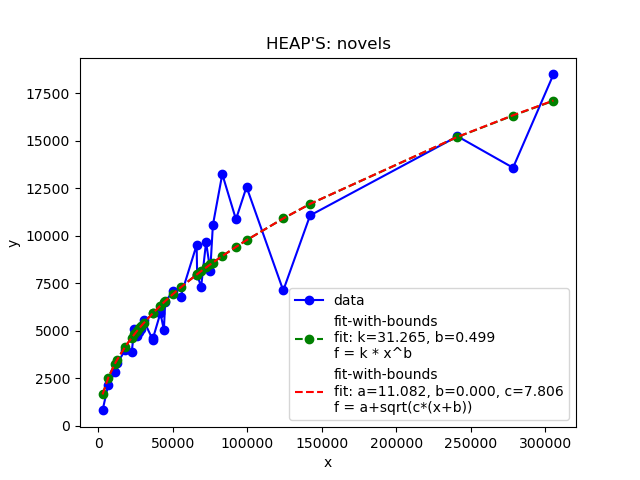
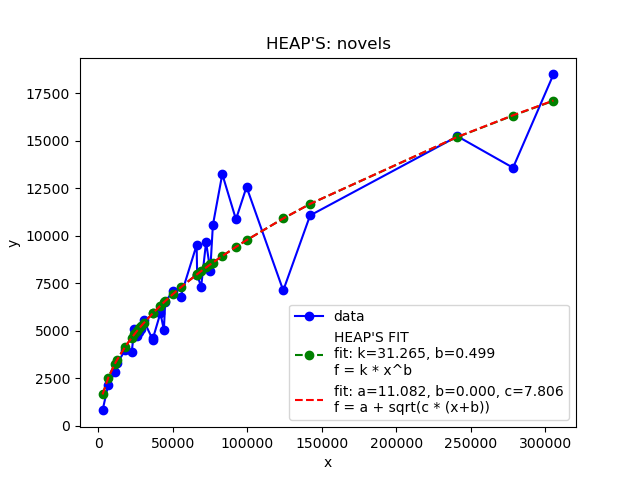
small changes

Changed region(s): [[0.4688, 0.5938, 0.7812, 0.875], [0.4688, 0.8125, 0.5, 0.8438]]

diff --git a/CAIM-1/plot_elastic_search_laws.py b/CAIM-1/plot_elastic_search_laws.py
@@ -63,22 +63,22 @@ def zipf_checker(files: list):
         # FIT ZIPFS
         popt, pcov = curve_fit(func_zipf, xdata, ydata, bounds=(0, [np.inf, np.inf, np.inf]))
         plt.plot(xdata, func_zipf(xdata, *popt), 'g--',
-                 label='fit-with-bounds\nfit: a=%5.3f, b=%5.3f, c=%5.3f\nf = c/(x+b)^a' % tuple(popt))
+                 label='ZIPF\S FIT\nfit: a=%5.3f, b=%5.3f, c=%5.3f\nf = c / (x+b)^a' % tuple(popt))
 
         # FIT A/X
         popt, pcov = curve_fit(func_a_over_x, xdata, ydata, bounds=(0, [np.inf, np.inf]))
         plt.plot(xdata, func_a_over_x(xdata, *popt), 'r--',
-                 label='fit-with-bounds\nfit: a=%5.3f, b=%5.3f\nf = a/(x+b)' % tuple(popt))
+                 label='fit: a=%5.3f, b=%5.3f\nf = a/(x+b)' % tuple(popt))
 
         # FIT LN(X)
         popt, pcov = curve_fit(func_ln, xdata, ydata, bounds=(0, [np.inf, np.inf, np.inf]))
         plt.plot(xdata, func_ln(xdata, *popt), 'y--',
-                 label='fit-with-bounds\nfit: a=%5.3f, b=%5.3f, c=%5.3f\nf =-a * np.log((x+b) * c)' % tuple(popt))
+                 label='fit: a=%5.3f, b=%5.3f, c=%5.3f\nf =-a * ln((x+b) * c)' % tuple(popt))
 
         # FIT inverse exponential
         popt, pcov = curve_fit(func_invexp, xdata, ydata, bounds=(0, [np.inf, np.inf, np.inf]))
         plt.plot(xdata, func_invexp(xdata, *popt), 'k--',
-                 label='fit-with-bounds\nfit: a=%5.3f, b=%5.3f, c=%5.3f\nf = a * e^(c/(x+b))' % tuple(popt))
+                 label='fit: a=%5.3f, b=%5.3f, c=%5.3f\nf = a * e^(c/(x+b))' % tuple(popt))
 
         # PLOT
 
@@ -149,11 +149,11 @@ def heaps_checker(file_basic: str, num_of_files: int, index_and_count: bool = Fa
 
     # FIT HEAPS
     popt, pcov = curve_fit(func_heap, xdata, ydata)
-    plt.plot(xdata, func_heap(xdata, *popt), 'go--', label='fit-with-bounds\nfit: k=%5.3f, b=%5.3f\nf = k * x^b' % tuple(popt))
+    plt.plot(xdata, func_heap(xdata, *popt), 'go--', label='HEAP\'S FIT\nfit: k=%5.3f, b=%5.3f\nf = k * x^b' % tuple(popt))
 
     # FIT SQRT
     popt, pcov = curve_fit(sq_root, xdata, ydata, bounds=(0, [np.inf, np.inf, np.inf]))
-    plt.plot(xdata, sq_root(xdata, *popt), 'r--', label='fit-with-bounds\nfit: a=%5.3f, b=%5.3f, c=%5.3f\nf = a+sqrt(c*(x+b))' % tuple(popt))
+    plt.plot(xdata, sq_root(xdata, *popt), 'r--', label='fit: a=%5.3f, b=%5.3f, c=%5.3f\nf = a + sqrt(c * (x+b))' % tuple(popt))
 
 
     # PLOT
@@ -166,7 +166,7 @@ def heaps_checker(file_basic: str, num_of_files: int, index_and_count: bool = Fa
     plt.savefig("heaps_{0}{1}.png".format(file_basic, "_zoomed"*zoomed))
 
 
-# a = zipf_checker(files=files_zipf)
+a = zipf_checker(files=files_zipf)
 
 b = heaps_checker(file_basic='novels', num_of_files=32, zoomed=False)
 
